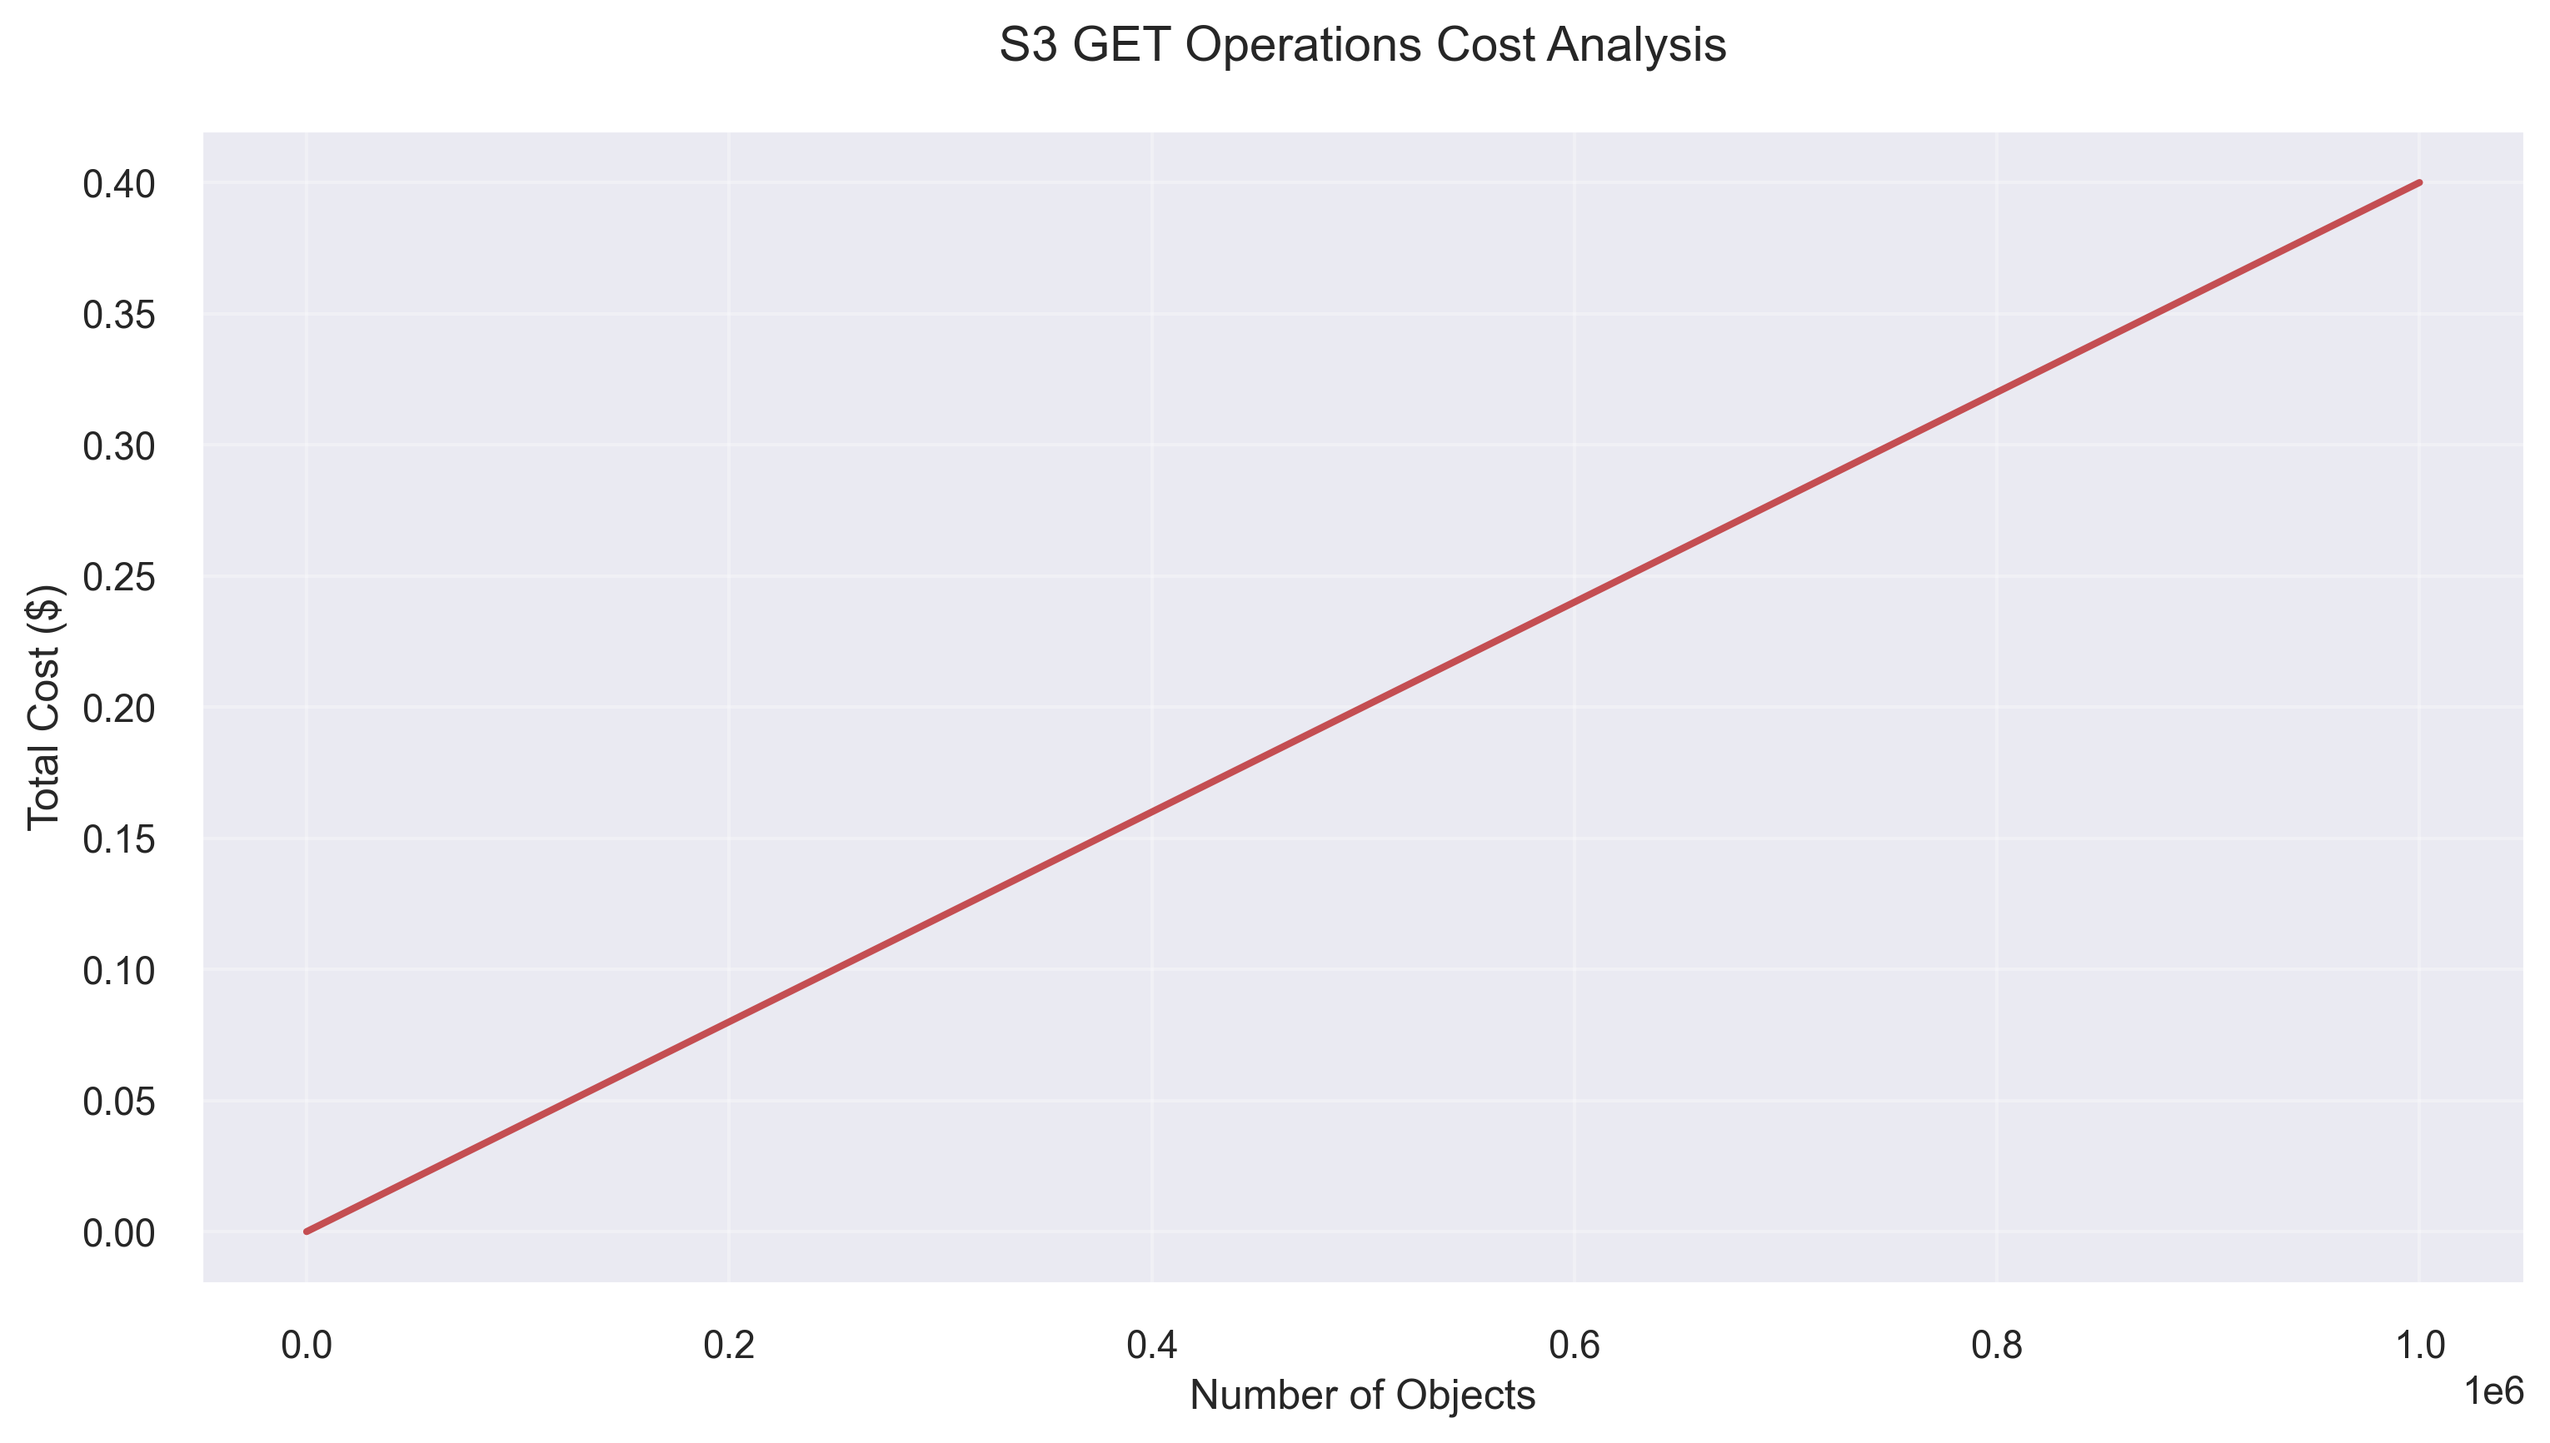
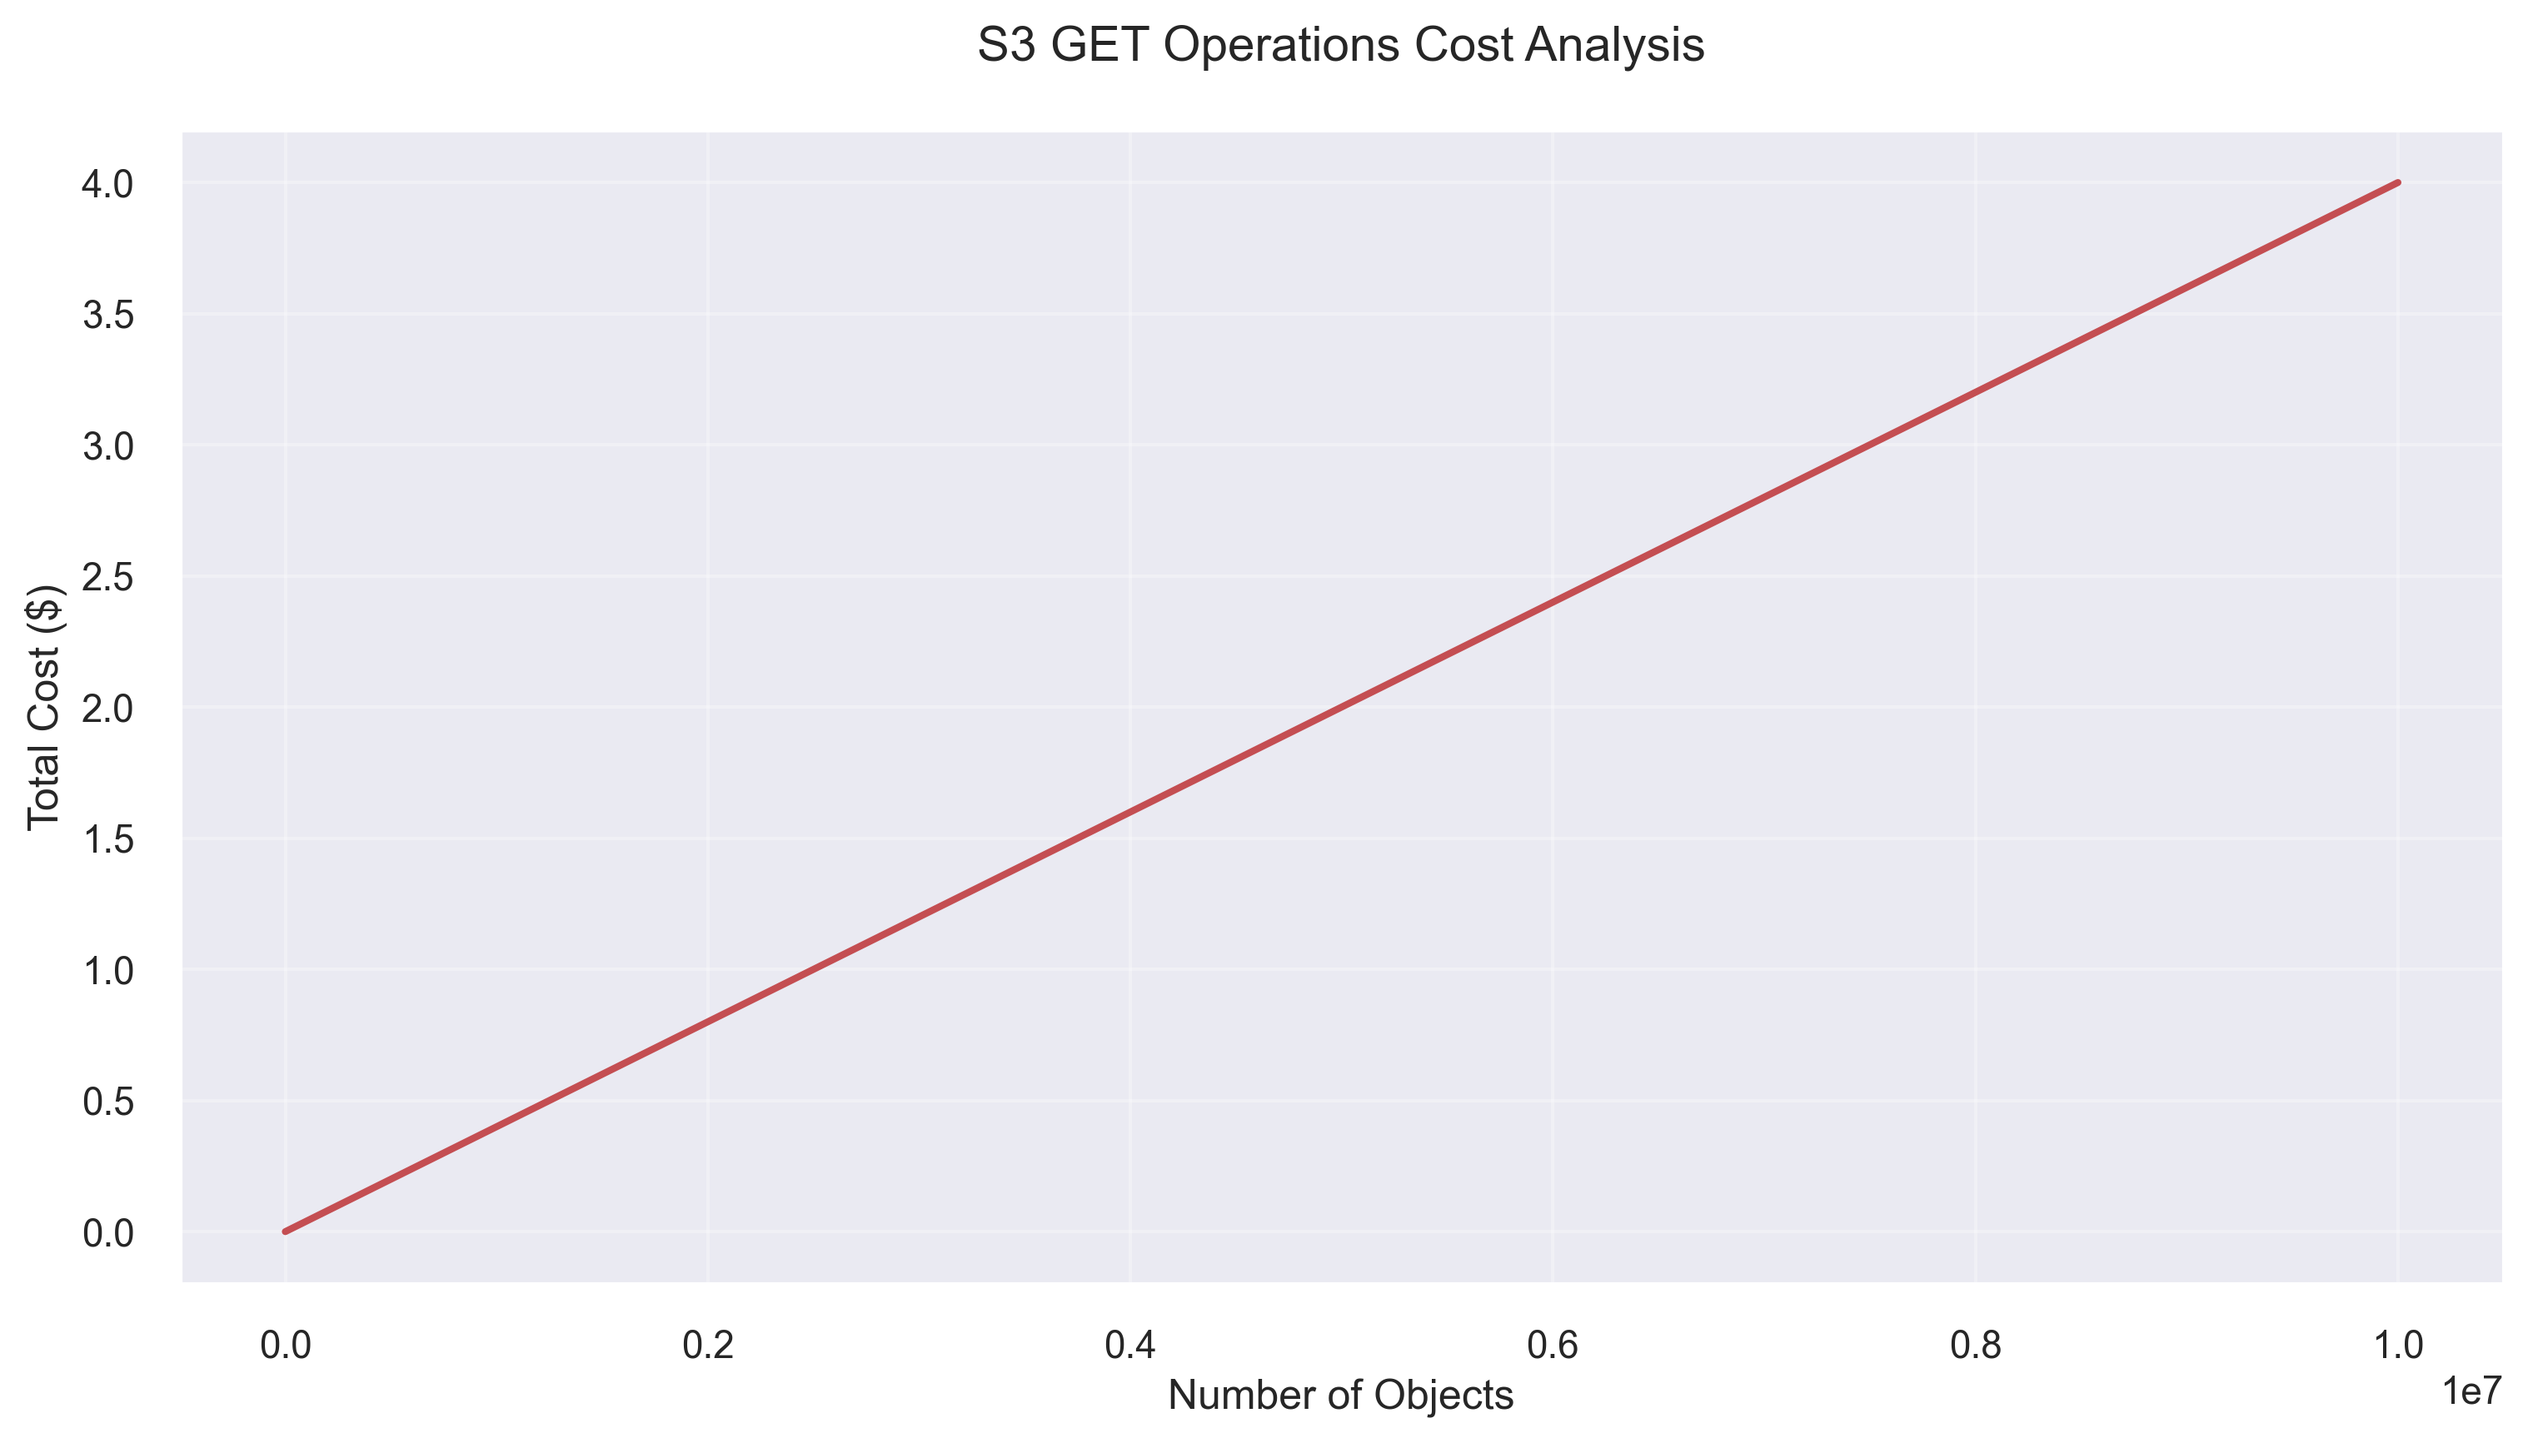
expanded plots

diff --git a/scripts/s3_to_r2_migration_calculator.py b/scripts/s3_to_r2_migration_calculator.py
@@ -54,13 +54,13 @@ class S3ToR2MigrationCalculator:
         costs = [self.calculate_s3_egress_cost(size) for size in data_sizes]
         return data_sizes, costs
     
-    def generate_get_cost_data(self, max_objects: int = 1_000_000) -> Tuple[List[int], List[float]]:
+    def generate_get_cost_data(self, max_objects: int = 10_000_000) -> Tuple[List[int], List[float]]:
         """Generate data points for GET operations cost visualization."""
         num_objects = np.linspace(0, max_objects, 100, dtype=int)
         costs = [self.calculate_s3_get_cost(n) for n in num_objects]
         return num_objects, costs
     
-    def generate_put_cost_data(self, max_objects: int = 1_000_000) -> Tuple[List[int], List[float]]:
+    def generate_put_cost_data(self, max_objects: int = 10_000_000) -> Tuple[List[int], List[float]]:
         """Generate data points for PUT operations cost visualization."""
         num_objects = np.linspace(0, max_objects, 100, dtype=int)
         costs = [self.calculate_r2_put_cost(n) for n in num_objects]
